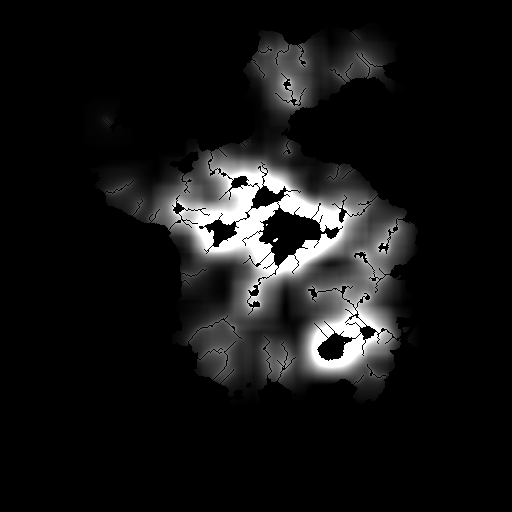
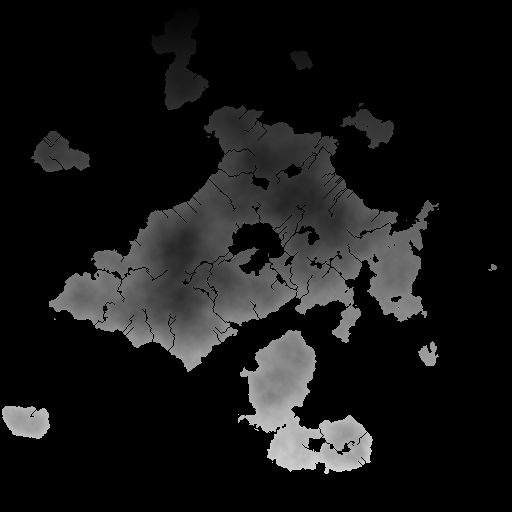
Added crude temperature map (based on elevation and longitude)

diff --git a/TerrainMap.py b/TerrainMap.py
@@ -53,9 +53,16 @@ class TerrainMap:
                             self.mapArray[location[0]][location[1]].isWater = True
         # print str(river_count) + " rivers created"
 
+    def calculate_temperature(self):
+        #simple north = cold model (boring)
+        for x in range(len(self.mapArray)):
+            for y in range(len(self.mapArray)):
+                self.mapArray[x][y].temperature = float(y) / float(self.resolution)
+                self.mapArray[x][y].temperature *= 1 - (self.mapArray[x][y].height * 0.9)
+
     def calculate_rainfall(self):
         print "Calculating rainfall..."
-        area = 50
+        area = 40
         amount = 0.04
         for x in range(len(self.mapArray)):
             for y in range(len(self.mapArray)):
@@ -64,11 +71,16 @@ class TerrainMap:
                         if 0 <= a < self.resolution:
                             for b in range(y - (area / 2), y + (area / 2)):
                                 if 0 <= b < self.resolution:
-                                    if self.mapArray[a][b].isWater and self.mapArray[a][b].height > self.seaLevel:
+                                    if self.mapArray[a][b].isWater:
                                         radialAmount = math.pow(math.pow(a - x, 2) + math.pow(b - y, 2), 0.5)
                                         radialAmount = 1.0 / radialAmount
                                         radialAmount *= amount
+                                        if self.mapArray[a][b].height <= self.seaLevel:
+                                            radialAmount *= 0.02
                                         self.mapArray[x][y].rainfall += radialAmount
+        for x in range(len(self.mapArray)):
+            for y in range(len(self.mapArray)):
+                self.mapArray[x][y].rainfall = min(self.mapArray[x][y].rainfall, 1.0)
 
     def fill_map_array(self):
         for x in range(len(self.heightArray)):
@@ -90,6 +102,14 @@ class TerrainMap:
         for x in range(len(self.mapArray)):
             for y in range(len(self.mapArray)):
                 pixels[x, y] = self.mapArray[x][y].get_rainfall_map_color()
+        return img
+
+    def get_temperature_map_image(self):
+        img = Image.new('RGB', (len(self.mapArray), len(self.mapArray)), "black")
+        pixels = img.load()
+        for x in range(len(self.mapArray)):
+            for y in range(len(self.mapArray)):
+                pixels[x, y] = self.mapArray[x][y].get_temperature_map_color()
         return img
 
     def get_terrain_map_image(self):

diff --git a/MapPixel.py b/MapPixel.py
@@ -13,10 +13,20 @@ class MapPixel:
         self.height = height
         self.seaLevel = sea_level
         self.rainfall = 0.0
+        self.temperature = 0.0
         self.isWater = True if self.height <= self.seaLevel else False
 
     def get_rainfall_map_color(self):
-        return (int(255*self.rainfall), int(255*self.rainfall), int(255*self.rainfall))
+        if self.isWater:
+            return (0, 0, 0)
+        else:
+            return (int(255*self.rainfall), int(255*self.rainfall), int(255*self.rainfall))
+
+    def get_temperature_map_color(self):
+        if self.isWater:
+            return (0, 0, 0)
+        else:
+            return (int(255*self.temperature), int(255*self.temperature), int(255*self.temperature))
 
     def get_greyscale_color(self):
         return (int(255*self.height), int(255*self.height), int(255*self.height))

diff --git a/Main.py b/Main.py
@@ -20,8 +20,9 @@ height = Modifiers.subtract(height, detailNoise)
 
 terrainMap = TerrainMap(height, 0.1)
 terrainMap.generate_rivers(0.2, 0.002)
-terrainMap.calculate_rainfall()
+#terrainMap.calculate_rainfall()
+terrainMap.calculate_temperature()
 img = terrainMap.get_terrain_map_image()
 img.save("test.png", "PNG")
-rainfall_map = terrainMap.get_rainfall_map_image()
+rainfall_map = terrainMap.get_temperature_map_image()
 rainfall_map.save("rainfall.png", "PNG")
